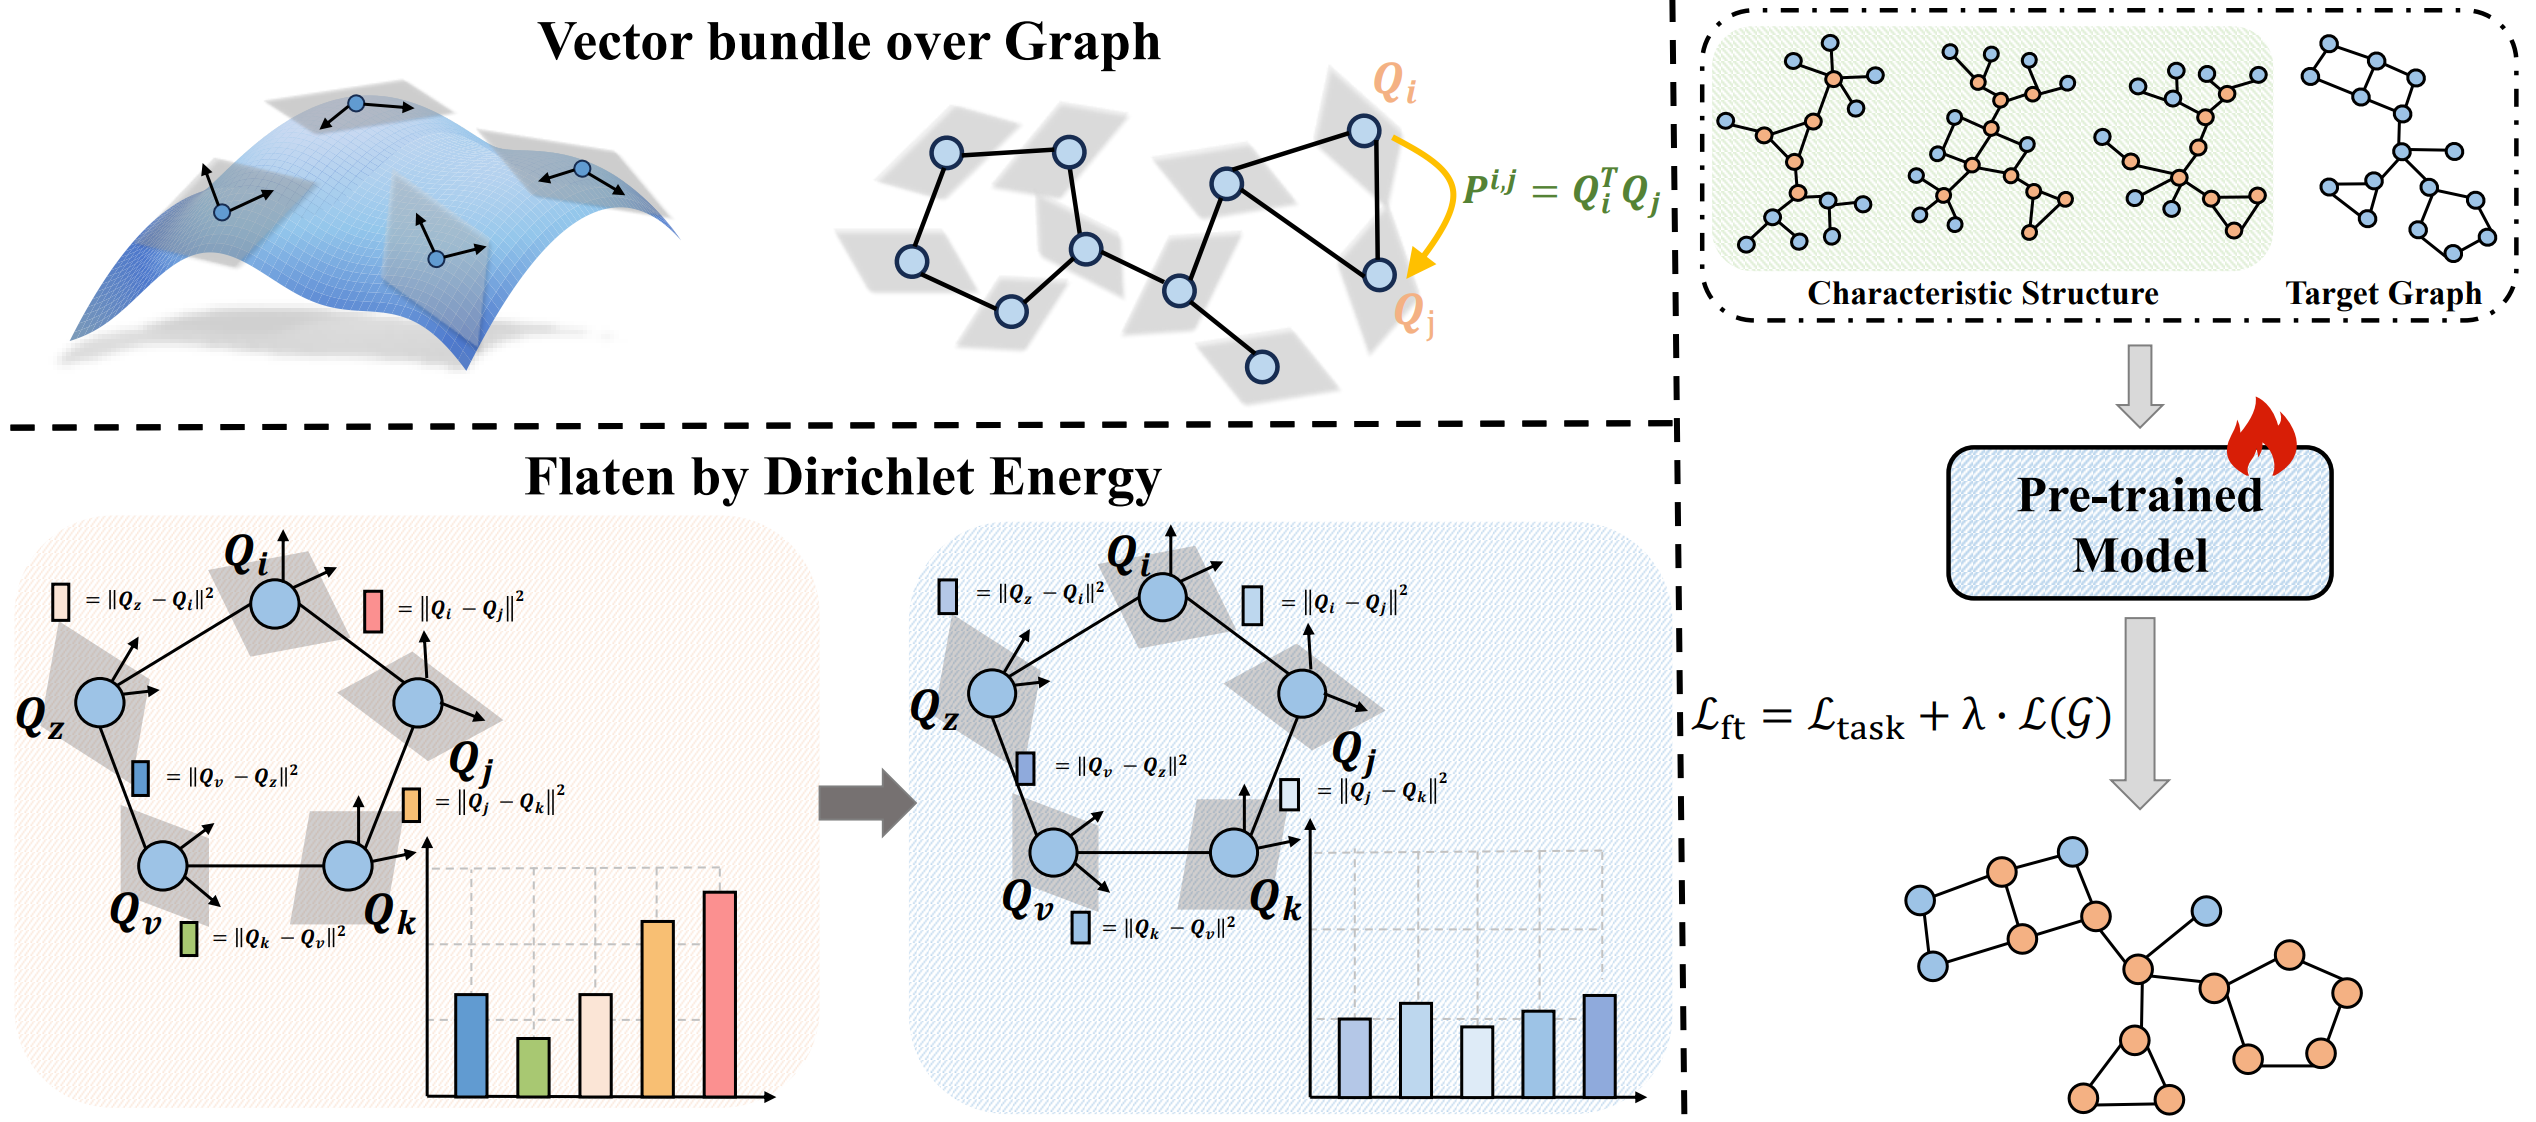
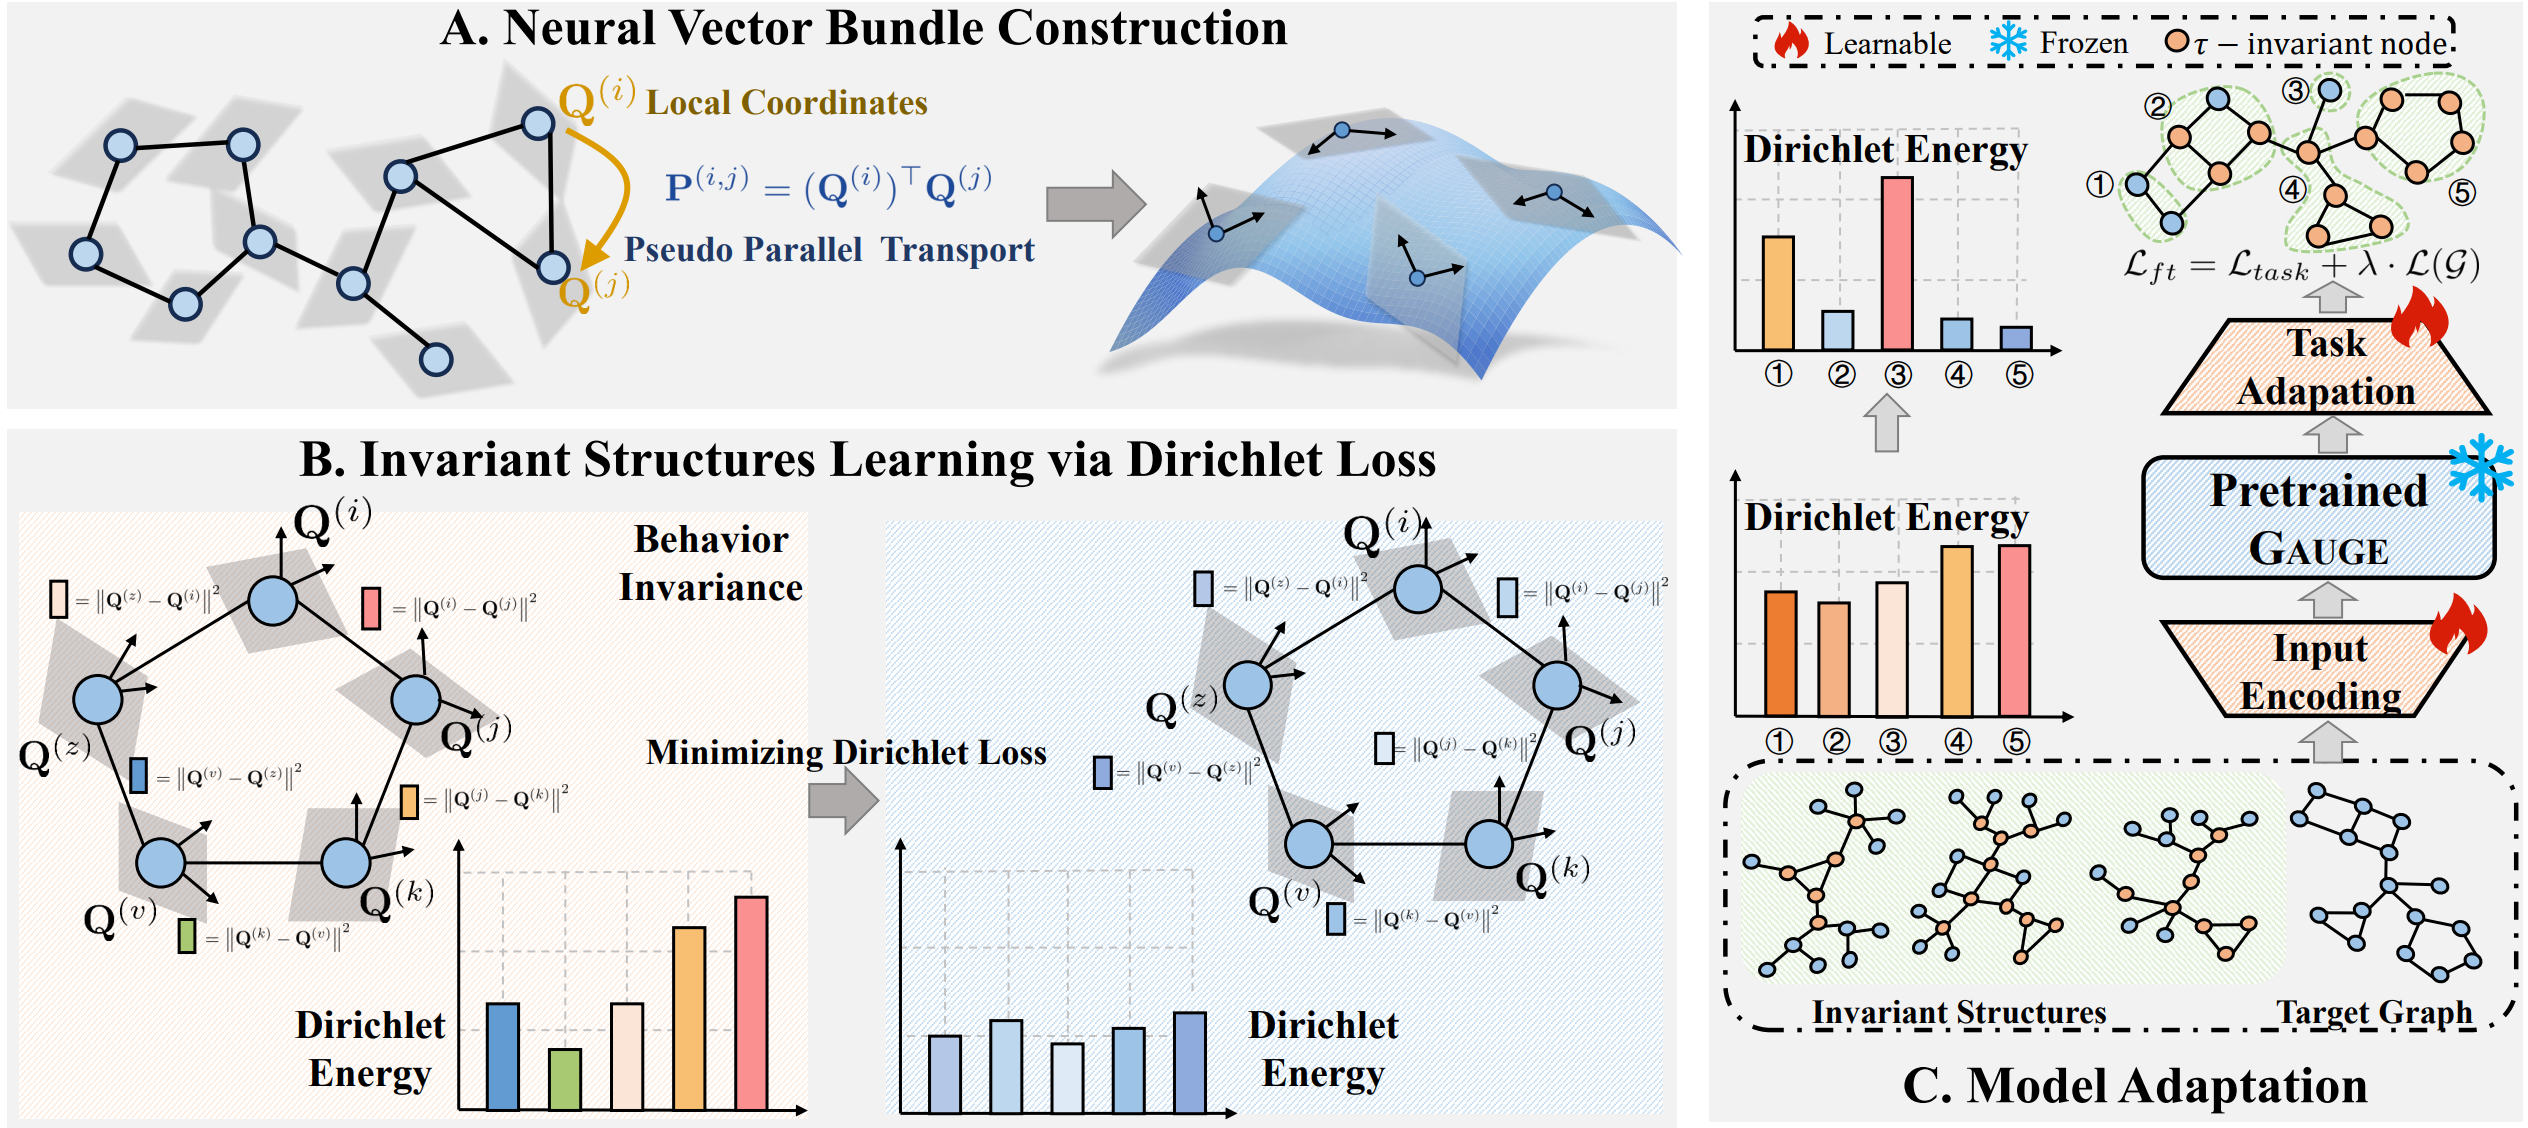
Update README

diff --git a/README.md b/README.md
@@ -28,12 +28,12 @@ with the file name of checkpoint that needed to use;
 ```${METRIC}$``` in [```acc```, ```auc```, ```ap```,```mse```,```mae```];
 ```$K_SHOT$``` with ```1, 5``` or other number you want to transfer.
 
-## INNERATE FrameWork
+## GAUGE FrameWork
 <div align=center>
-<img src="./pics/framework.png" width=100% alt="INNERATE" title="INNERATE" >
+<img src="./pics/framework.png" width=100% alt="GAUGE" title="GAUGE" >
 </div>
 <div align=center>
-Figure 1. An Illustration of INNERATE Framework.
+Figure 1. An Illustration of GAUGE Framework.
 </div>
 
 ## Visualization
